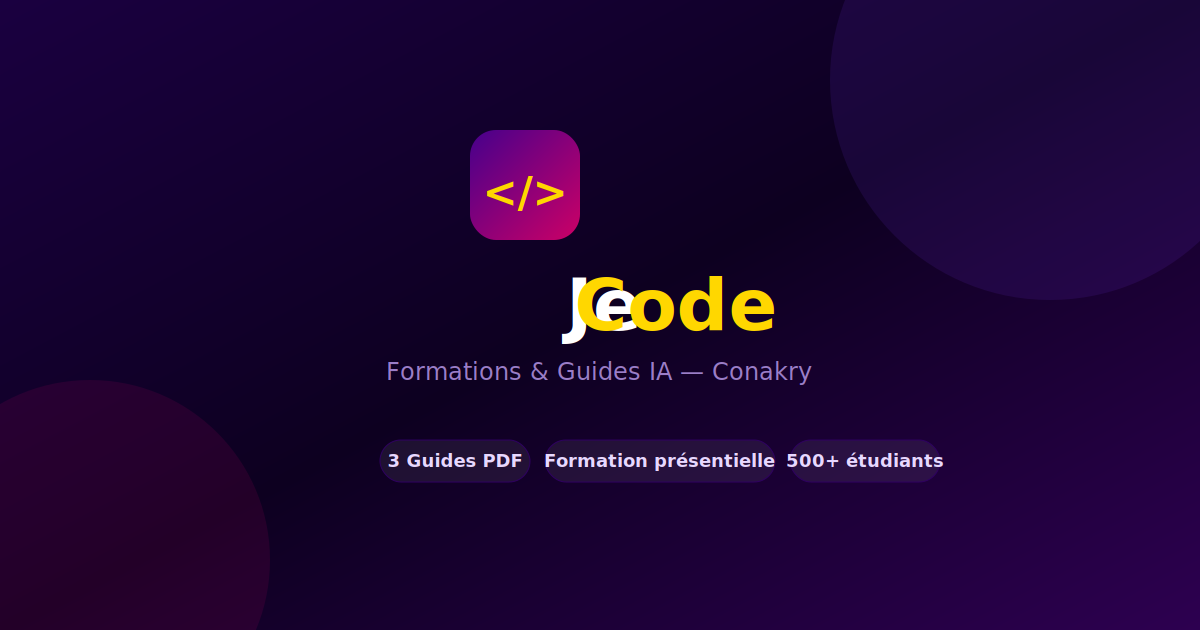
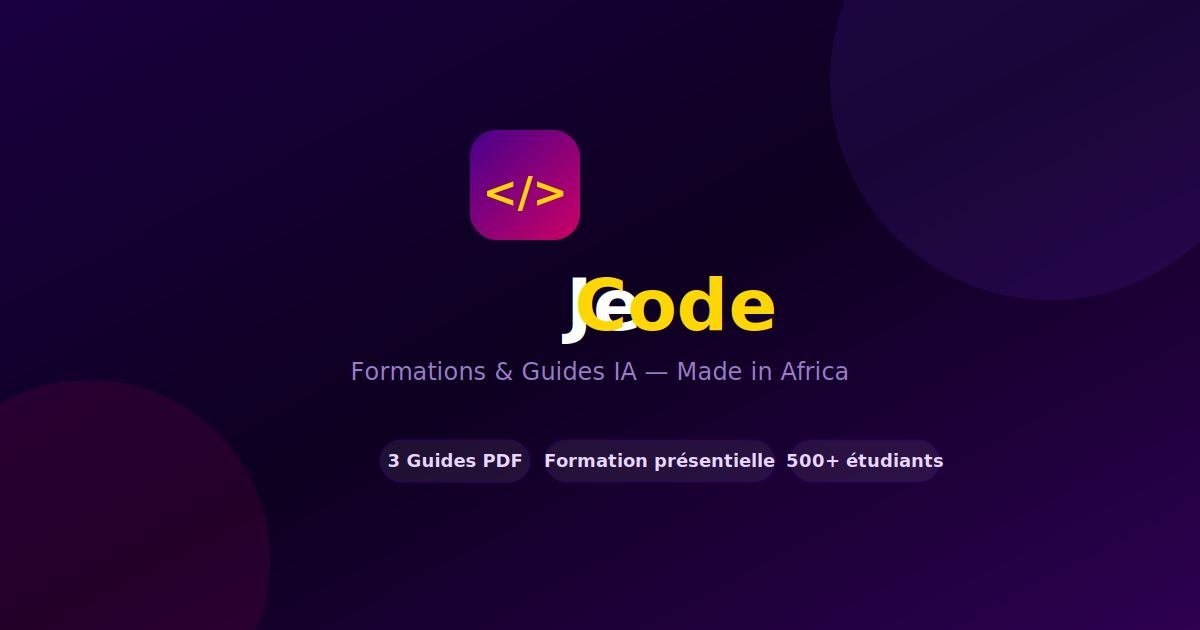
Ouverture pan-africaine : prix USD, repositionnement, FAQ paiement international

Changed region(s): [[0.2775, 0.573, 0.7092, 0.6032]]

diff --git a/src/App.jsx b/src/App.jsx
@@ -9,6 +9,10 @@ const ORANGE_NUM  = "624 144 006";
 const ORANGE_NOM  = "JeCode";
 const GA_ID        = "G-V75T1W3PH4";
 
+// Taux indicatif GNF → USD (à mettre à jour périodiquement, ~1 USD = 8 770 GNF mi-2026)
+const USD_RATE = 8770;
+const toUSD = (gnf) => (gnf / USD_RATE).toLocaleString("en-US", { minimumFractionDigits: 2, maximumFractionDigits: 2 });
+
 // ─────────────────────────────────────────
 //  COULEURS
 // ─────────────────────────────────────────
@@ -421,8 +425,18 @@ function ProductCard({ produit, onOrder, index = 0 }) {
           👥 {produit.pour_qui}
         </div>
 
+        <div style={{
+          display: "inline-flex", alignItems: "center", gap: 6, alignSelf: "flex-start",
+          background: produit.type === "guide" ? "rgba(52,211,153,0.1)" : "rgba(255,215,0,0.1)",
+          border: `1px solid ${produit.type === "guide" ? "rgba(52,211,153,0.25)" : "rgba(255,215,0,0.25)"}`,
+          color: produit.type === "guide" ? "#34D399" : C.yellow,
+          borderRadius: 8, padding: "0.3rem 0.6rem", fontSize: "0.7rem", fontWeight: 700,
+        }}>
+          {produit.type === "guide" ? "🌍 Livré partout dans le monde (WhatsApp)" : "📍 Présentiel — Conakry uniquement"}
+        </div>
+
         <div style={{ marginTop: "auto", paddingTop: 12, borderTop: `1px solid ${C.border}` }}>
-          <div style={{ display: "flex", alignItems: "baseline", gap: 6, marginBottom: 12 }}>
+          <div style={{ display: "flex", alignItems: "baseline", gap: 6, marginBottom: 2, flexWrap: "wrap" }}>
             <span style={{ color: C.white, fontWeight: 900, fontSize: "1.4rem", fontFamily: "'Space Grotesk', sans-serif" }}>
               {produit.prix.toLocaleString()}
             </span>
@@ -430,6 +444,9 @@ function ProductCard({ produit, onOrder, index = 0 }) {
             {produit.type === "guide" && (
               <span style={{ color: C.muted, fontSize: "0.72rem", marginLeft: 4 }}>• PDF immédiat</span>
             )}
+          </div>
+          <div style={{ color: C.muted, fontSize: "0.76rem", marginBottom: 10 }}>
+            ≈ ${toUSD(produit.prix)} USD
           </div>
           <button onClick={() => onOrder(produit)} className="lift-hover"
             style={{
@@ -574,7 +591,7 @@ export default function App() {
           </div>
           <div>
             <div style={{ fontWeight: 900, fontSize: "1rem", color: C.white, fontFamily: "'Space Grotesk', sans-serif" }}>JeCode</div>
-            <div style={{ fontSize: "0.65rem", color: C.muted }}>Conakry · Guinée</div>
+            <div style={{ fontSize: "0.65rem", color: C.muted }}>Depuis la Guinée · pour toute l'Afrique</div>
           </div>
         </div>
         <a href={`https://wa.me/${WHATSAPP}`} target="_blank" rel="noreferrer"
@@ -590,7 +607,7 @@ export default function App() {
         <div className="glow-float-alt" style={{ position: "absolute", bottom: "10%", right: "10%", width: 250, height: 250, background: "radial-gradient(circle, rgba(204,0,102,0.2) 0%, transparent 70%)", pointerEvents: "none" }} />
 
         <div data-aos="fade-down" data-aos-delay="0" style={{ display: "inline-flex", alignItems: "center", gap: 6, background: "rgba(255,215,0,0.08)", border: "1px solid rgba(255,215,0,0.2)", color: C.yellow, borderRadius: 20, padding: "0.3rem 1rem", fontSize: "0.72rem", fontWeight: 700, letterSpacing: 1, textTransform: "uppercase", marginBottom: 24 }}>
-          ✦ Formations & Guides IA · Conakry 2026
+          ✦ Formations & Guides IA · Made in Africa
         </div>
 
         <h1 data-aos="fade-up" data-aos-delay="100" style={{ fontSize: "clamp(2.2rem, 6vw, 3.6rem)", fontWeight: 900, lineHeight: 1.1, marginBottom: 18, fontFamily: "'Space Grotesk', sans-serif" }}>
@@ -604,7 +621,7 @@ export default function App() {
         </h1>
 
         <p data-aos="fade-up" data-aos-delay="200" style={{ color: C.muted, fontSize: "1rem", lineHeight: 1.75, maxWidth: 540, margin: "0 auto 2.5rem" }}>
-          Des formations et guides pratiques créés à Conakry pour la jeunesse africaine —
+          Des formations et guides pratiques créés en Afrique, pour l'Afrique et au-delà —
           pour ceux qui veulent vraiment comprendre, créer et avancer.
         </p>
 
@@ -680,11 +697,12 @@ export default function App() {
               <span style={{ color: C.muted, fontSize: "0.82rem" }}>GNF</span>
             </div>
           </div>
-          <div style={{ display: "flex", alignItems: "baseline", gap: 10, justifyContent: "center", marginBottom: 24 }}>
+          <div style={{ display: "flex", alignItems: "baseline", gap: 10, justifyContent: "center", marginBottom: 4, flexWrap: "wrap" }}>
             <span style={{ color: C.yellow, fontWeight: 900, fontSize: "2rem", fontFamily: "'Space Grotesk', sans-serif" }}>620 000</span>
             <span style={{ color: C.muted }}>GNF</span>
             <span style={{ background: "rgba(255,215,0,0.12)", color: C.yellow, borderRadius: 6, padding: "2px 8px", fontSize: "0.78rem", fontWeight: 700 }}>Économise 155 000 GNF</span>
           </div>
+          <div style={{ color: C.muted, fontSize: "0.8rem", marginBottom: 20 }}>≈ ${toUSD(620000)} USD</div>
           <a href={`https://wa.me/${WHATSAPP}?text=${packWa}`} target="_blank" rel="noreferrer"
             style={{ display: "inline-block", background: gradMain, color: C.white, borderRadius: 14, padding: "1rem 2.5rem", fontWeight: 800, textDecoration: "none", fontSize: "1rem" }}>
             Commander le pack complet →
@@ -700,12 +718,12 @@ export default function App() {
           Pourquoi JeCode ?
         </h2>
         <p data-aos="fade-up" data-aos-delay="80" style={{ color: C.muted, marginBottom: 36, fontSize: "0.9rem" }}>
-          Créé à Conakry, pour la jeunesse guinéenne et africaine.
+          Créé en Guinée, pensé pour toute l'Afrique — et accessible partout ailleurs.
         </p>
         <div style={{ display: "grid", gridTemplateColumns: "repeat(auto-fit, minmax(200px, 1fr))", gap: 16 }}>
           {[
             ["🎯", "Contenu concret", "Des guides 100% pratiques — pas de théorie vide. Chaque page est actionnable."],
-            ["🇬🇳", "Fait en Guinée", "Créé par quelqu'un qui comprend le contexte africain et ses réalités."],
+            ["🌍", "Racines africaines", "Créé à Conakry par quelqu'un qui comprend le contexte africain — et livré partout dans le monde."],
             ["⚡", "Résultats rapides", "Tu peux appliquer ce que tu apprends le jour même de l'achat."],
             ["💬", "Support WhatsApp", "Des questions après l'achat ? On répond. Tu n'es pas seul."],
           ].map(([e, t, d], i) => (
@@ -726,8 +744,9 @@ export default function App() {
           Questions fréquentes
         </h2>
         {[
-          ["Comment je reçois mon guide PDF ?", "Après le paiement Orange Money, envoie ta confirmation sur WhatsApp avec la référence. Tu reçois ton PDF dans l'heure."],
-          ["La formation présentielle, c'est quand ?", "Du 3 Août au 3 Septembre 2026 à Kountia OAS, Conakry. Le paiement de 500 000 GNF se fait en présentiel."],
+          ["Comment je reçois mon guide PDF ?", "Après le paiement, envoie ta confirmation sur WhatsApp avec la référence. Tu reçois ton PDF dans l'heure, où que tu sois dans le monde."],
+          ["Je suis hors de Guinée, comment je paie ?", "Le paiement Orange Money est pour l'instant pensé pour la Guinée. Si tu es ailleurs en Afrique ou dans le monde, écris-nous directement sur WhatsApp : on trouve ensemble une solution adaptée (virement, Wave, PayPal...)."],
+          ["La formation présentielle, c'est quand ?", "Du 3 Août au 3 Septembre 2026 à Kountia OAS, Conakry. Uniquement en présentiel — les guides PDF, eux, sont accessibles partout."],
           ["Les guides fonctionnent avec quelle IA ?", "Tous les guides sont compatibles avec ChatGPT, Claude et Gemini — tous gratuits."],
           ["Est-ce que je peux partager les guides ?", "Non. Chaque guide est pour usage personnel uniquement. La revente est interdite."],
           ["J'ai une question avant d'acheter ?", "Écris-nous sur WhatsApp — on répond rapidement."],

diff --git a/index.html b/index.html
@@ -3,23 +3,23 @@
   <head>
     <meta charset="UTF-8" />
     <meta name="viewport" content="width=device-width, initial-scale=1.0" />
-    <title>JeCode — Formations & Guides IA</title>
-    <meta name="description" content="Formations et guides pratiques pour apprendre à coder et maîtriser l'IA — JeCode Conakry" />
+    <title>JeCode — Formations & Guides IA pour l'Afrique</title>
+    <meta name="description" content="Formations et guides pratiques pour apprendre à coder et maîtriser l'IA — créés en Afrique, livrés partout dans le monde." />
     <link rel="canonical" href="https://jecode-boutique.vercel.app/" />
     <link rel="icon" type="image/svg+xml" href="/favicon.svg" />
 
     <!-- Open Graph -->
     <meta property="og:type" content="website" />
-    <meta property="og:title" content="JeCode — Formations & Guides IA" />
-    <meta property="og:description" content="Formations et guides pratiques pour apprendre à coder et maîtriser l'IA — JeCode Conakry" />
+    <meta property="og:title" content="JeCode — Formations & Guides IA pour l'Afrique" />
+    <meta property="og:description" content="Formations et guides pratiques pour apprendre à coder et maîtriser l'IA — créés en Afrique, livrés partout dans le monde." />
     <meta property="og:url" content="https://jecode-boutique.vercel.app/" />
     <meta property="og:image" content="https://jecode-boutique.vercel.app/og-image.png" />
     <meta property="og:locale" content="fr_FR" />
 
     <!-- Twitter Card -->
     <meta name="twitter:card" content="summary_large_image" />
-    <meta name="twitter:title" content="JeCode — Formations & Guides IA" />
-    <meta name="twitter:description" content="Formations et guides pratiques pour apprendre à coder et maîtriser l'IA — JeCode Conakry" />
+    <meta name="twitter:title" content="JeCode — Formations & Guides IA pour l'Afrique" />
+    <meta name="twitter:description" content="Formations et guides pratiques pour apprendre à coder et maîtriser l'IA — créés en Afrique, livrés partout dans le monde." />
     <link rel="preconnect" href="https://fonts.googleapis.com" />
     <link href="https://fonts.googleapis.com/css2?family=Inter:wght@400;500;600;700;900&family=Space+Grotesk:wght@500;700;800&display=swap" rel="stylesheet" />
   </head>
